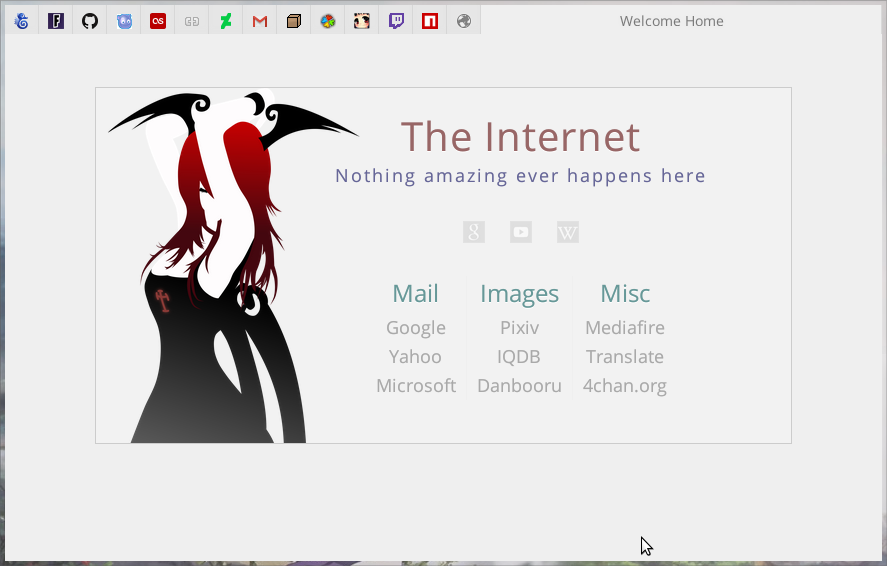
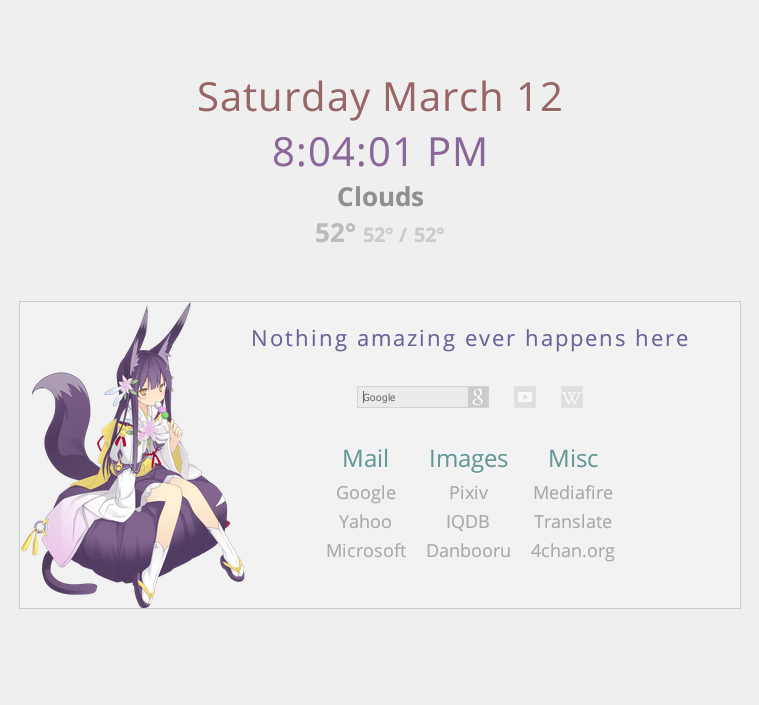
Added Day / Date / Time / Weather above links
Some basic code stolen from @austinkilduff

diff --git a/general.css b/general.css
@@ -33,9 +33,9 @@ main {
     min-width: 500px;
     font-size: 18px;
     background-size: contain;
-    background-repeat: no-repeat;
     border-width: 1px;
     border-style: solid;
+    background-repeat: no-repeat;
     margin: 10vh 0 0 0;
 }
 
@@ -43,20 +43,12 @@ header {
     margin-bottom: 30px;
 }
 
-h1 {
-    letter-spacing: 1px;
-    font-size: 40px;
-    font-weight: normal;
-    text-align: center;
-    padding: 0;
-    margin: 0;
-}
-
 .subtitle {
     text-align: center;
     letter-spacing: 2px;
     padding: 0;
     margin: 0;
+    font-size: 22px;
 }
 
 .searchContainer {
@@ -192,8 +184,6 @@ nav {
     display: table-cell;
     text-align: center;
     height: 100%;
-    border-right-width: 1px;
-    border-right-style: solid;
     padding: 0 10px;
 }
 
@@ -222,3 +212,58 @@ nav {
     transition: all 0.8s;
 }
 
+/* Weather addition, credits to austinkilduff https://github.com/austinkilduff/startpage/ */
+/* clock/date from the internet */
+
+.container {
+    padding: 0;
+}
+
+.vcenter {
+    position: relative;
+    top: 35vh;
+    transform: translateY(-50%);
+}
+
+#date {
+    letter-spacing: 1px;
+    font-size: 40px;
+    font-weight: normal;
+    text-align: center;
+    margin: 0;
+}
+
+#time {
+    letter-spacing: 1px;
+    color: #8C6699;
+    font-size: 40px;
+    font-weight: normal;
+    text-align: center;
+    margin: 0;
+}
+
+#weather {
+    color: #bbbbbb;
+}
+
+#description {
+    color: #909090;
+}
+
+h2 {
+    font-size: 26px;
+    margin-top: 0px;
+    margin-bottom: 0px;
+    margin-right: 0px;
+}
+
+h3 {
+    font-size: 26px;
+    margin-top: 0px;
+    margin-bottom: -50px;
+    margin-right: 0px;
+}
+
+small{
+        color: #ccc;
+}

diff --git a/home.html b/home.html
@@ -18,11 +18,30 @@
 
         <script type="text/javascript" src="js/jquery-2.1.1.min.js"></script>
         <script type="text/javascript" src="js/mascots-control.js"></script>
+        
+        <!-- http://www.elated.com/articles/creating-a-javascript-clock/ -->
+                
+        <script type="text/javascript" src="js/clock.js"></script>
+
+        <!-- https://github.com/austinkilduff/startpage -->
+        <script src="js/weather.js"></script>
+        <script src="https://code.jquery.com/jquery-2.2.0.js"></script>
+		<script src="https://maxcdn.bootstrapcdn.com/bootstrap/3.3.6/js/bootstrap.min.js"></script>
     </head>
-    <body>
+	<body>
+    	<div class="container">
+    		<div id="content" class="vcenter">
+    		    <h1 id="date"></h1>
+     		    <h4 id="time"></h1>              
+                <div id="weather">
+                	<h2 id="description"></h2>
+					<h3 id="temp_curr">
+						<small id="temp_low"></small>
+						<small id="temp_high"></small>
+					</h3>
+				</div>	
         <main> <!-- Random mascot image will be set as background-image by javascript -->
             <header>
-                <h1>The Internet<span class="name-highlight"></span></h1>
                 <p class="subtitle">Nothing amazing ever happens here</p>
             </header>
             <section class="searchContainer">

diff --git a/js/clock.js b/js/clock.js
@@ -1,0 +1,38 @@
+    window.onload = setInterval(clock,1000);
+
+    function clock()
+    {
+      var d = new Date();
+      
+      var date = d.getDate();
+      
+      var month = d.getMonth();
+      var montharr =["January","February","March","April","May","June","July","August","September","October","November","December"];
+      month=montharr[month];
+
+      var day = d.getDay();
+      var dayarr =["Sunday","Monday","Tuesday","Wednesday","Thursday","Friday","Saturday"];
+      day=dayarr[day];
+    
+      var hour =d.getHours();
+      var min = d.getMinutes();
+      var sec = d.getSeconds();
+
+        hour = checkTime(hour);
+        min = checkTime(min);
+        sec = checkTime(sec);
+
+       hour = (hour > 12)  ? hour - 12 : hour;
+       hour = (hour == 0) ? 12 : hour;
+
+      var timeOfDay = ( hour < 12 ) ? "PM" : "AM"
+    
+      document.getElementById("date").innerHTML=day+" "+month+" "+date;
+      document.getElementById("time").innerHTML=hour+":"+min+":"+sec+"&nbsp;"+timeOfDay;
+    }
+
+    function checkTime(i) {
+    if (i<10) {i = "0" + i};  // add zero in front of numbers < 10
+    return i;
+}
+

diff --git a/js/weather.js b/js/weather.js
@@ -1,0 +1,28 @@
+var json_url = "http://api.openweathermap.org/data/2.5/weather?q=Chicago,ma&appid=6e131a2916d5d45d8367b72a4675be0a";
+var city;
+var temp_curr;
+var temp_low;
+var temp_high;
+var description;
+$.when(
+	$.getJSON(json_url)
+	).done( function(json_obj) {
+		city = json_obj["name"];
+		temp_curr = k_to_f(json_obj["main"]["temp"]);
+		temp_low = k_to_f(json_obj["main"]["temp_min"]);
+		temp_high = k_to_f(json_obj["main"]["temp_max"]);
+		description = json_obj["weather"][0]["main"];
+
+		insertWeatherInfo();
+	}
+);
+function k_to_f(kelvin) {
+	return ((9 / 5) * (kelvin - 273) + 32).toFixed(0);
+}
+function insertWeatherInfo() {
+	//$("#city").append(city);
+	$("#description").append(description);
+	$("#temp_curr").prepend(temp_curr + "&deg;");
+	$("#temp_low").append(temp_low + "&deg; /");
+	$("#temp_high").append(temp_high + "&deg;");
+}

diff --git a/README.md b/README.md
@@ -1,35 +1,36 @@
-Homepage : ruri-light edit (Shiro)
+Homepage
 ====
 
 ![alt tag](screenshots/preview.png "Homepage preview")
 
-**Live Demo: [Dark](http://gokoururi.github.io/homepage/) - [Light](http://gokoururi.github.io/homepage/index-light.html)**
-
 This repository contains a custom homepage made using html, css and javascript (jQuery). Feel free to download and modify. Comments and suggestions appreciated. Please don't expect too much.
 
 Features:
-* Flashy links
-* Flashy Slidy sublinks
+* Column style links, by category
 * Flashy Slidy searchbars
 * Randomly selected cute 2D girls
-* Column style links.
 * Light color theme. See [Live Demo](http://gokoururi.github.io/homepage/index-light.html)
-* Directory structure for easier making and sharing themes.
-* 40 mascots.
-
+* 40 Mascots
+* Current day and time
+* Weather by location
 
 Customizing, adding mascots and themes
 ----
 To change current theme, replace its name in [home.html](home.html#L15-17)
 
-To customize mascots in `ruri-dark` theme, modify the array in [themes/ruri-dark/mascots.js](themes/ruri-dark/mascots.js):
+To customize mascots in `ruri-light` theme, modify the array in [themes/ruri-light/mascots.js](themes/ruri-light/mascots.js):
 ```javascript
-var mascotList = [ "ruri1.png", "ruri2.png", "ruri3.png" ];
+var mascotList = [ "1.png", "2.png", "3.png" ];
 ```
 
-To make new theme, you can copy an existing one, and change images and [colors.css](themes/ruri-dark/colors.css) as you like.  
-Please note that entries in your theme's [mascots.js](themes/ruri-dark/mascots.js) should match with contents of [mascots/](themes/ruri-dark/mascots/) directory.  
-(Of course, above links use `ruri-dark` theme only as an example.)
+For accurate temperatures, edit "weather.js" and change the search query to the closest city or zip code near you.
+```javascript
+var json_url = "http://api.openweathermap.org/data/2.5/weather?q=60646,ma&appid=6e131a2916d5d45d8367b72a4675be0a";
+```
+
+To make new theme, you can copy an existing one, and change images and [colors.css](themes/ruri-light/colors.css) as you like.  
+Please note that entries in your theme's [mascots.js](themes/ruri-light/mascots.js) should match with contents of [mascots/](themes/ruri-light/mascots/) directory.  
+(In this fork, all styling data is referenced within /ruri-light)
 
 Disclaimer
 ----
